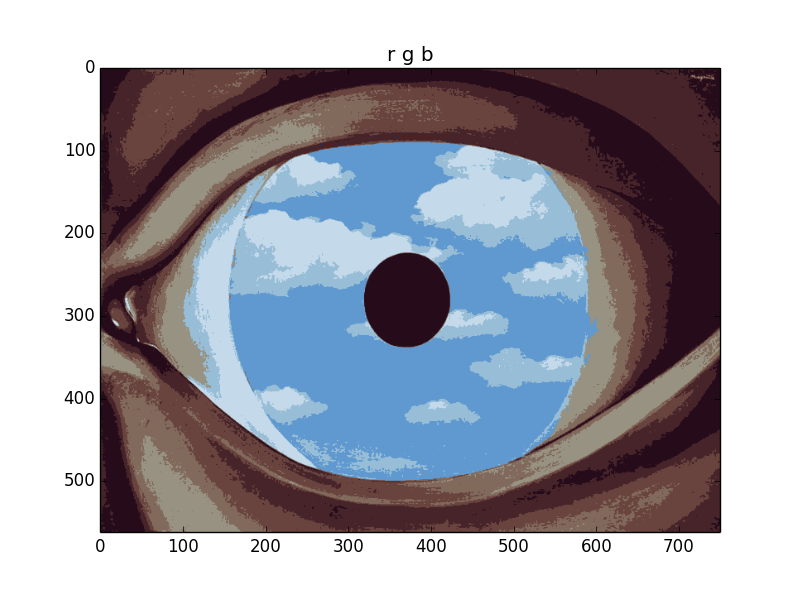
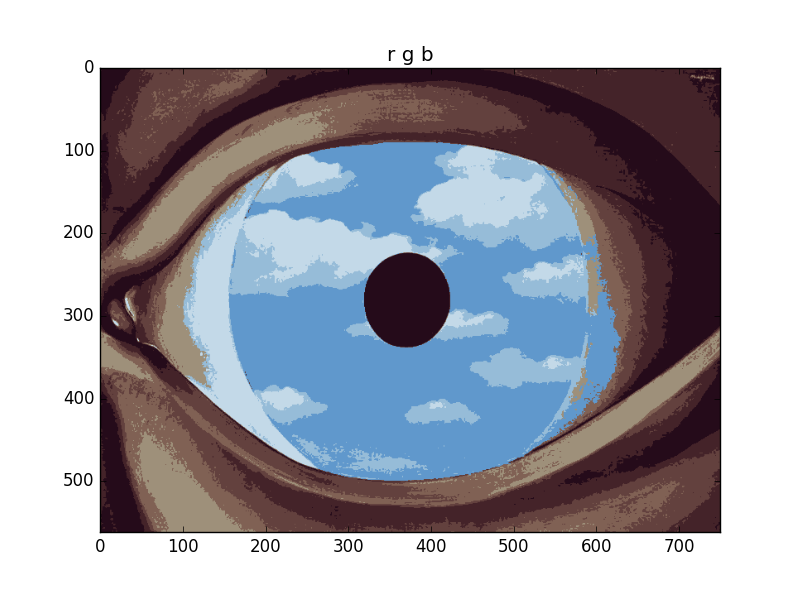
normalizing now

diff --git a/cross_stitchofy.py b/cross_stitchofy.py
@@ -1,5 +1,6 @@
 
 import matplotlib
+matplotlib.use('Agg')
 import matplotlib.pyplot as plt;
 import numpy as np
 import scipy.misc
@@ -7,10 +8,11 @@ import sklearn.cluster
 import matplotlib.colors
 import sys
 import argparse
+# import imageio
 # import matplotlib.pyplot as plt
 
 def cluster_im(im,type_cluster, num_k):
-
+    print im.shape
     arr = np.array(im,dtype=float)/255.
     # print np.min(arr),np.max(arr)
     if type_cluster[0]=='hsv':
@@ -23,12 +25,18 @@ def cluster_im(im,type_cluster, num_k):
 
     print 'CLUSTERING IN TO %d CLUSTERS' % num_k
     kmeans = sklearn.cluster.KMeans(n_clusters=num_k)
+
     arr_shape = arr.shape
     arr = np.reshape(arr, (arr.shape[0]*arr.shape[1],arr.shape[2]))
+    mean = np.mean(arr,0,keepdims = True)
+    std = np.std(arr,0, keepdims = True)
+    std[std==0]=1.
+    arr = (arr-mean)/std
+    
     arr_idx = kmeans.fit_predict(arr)
 
     for idx_curr in range(num_k):
-        arr[arr_idx==idx_curr,:]=kmeans.cluster_centers_[idx_curr]
+        arr[arr_idx==idx_curr,:]=(kmeans.cluster_centers_[idx_curr]*std)+mean
 
     arr = np.reshape(arr,arr_shape)
     
@@ -71,7 +79,7 @@ def magic(in_file,
 
     in_file_stripped = in_file[:in_file.rindex('.')]
     
-    im = scipy.misc.imread(in_file)
+    im = scipy.misc.imread(in_file,mode='RGB')
     if np.max(im.shape)>800:
         im = downscale(im,800,'bilinear')
 

diff --git a/README.md b/README.md
@@ -1,5 +1,5 @@
 # cross_stitchofy
-Makes a cross stitch pattern from a picture. You can specify the scale of your pattern, the number of colors you want, and the type of clustering you want (rgb or hsv). You can also play around with how your pattern is saved so that it's easy to read. Colors are clustered before downsampling.. sometimes the opposite is better. Change lines 78-79 if you want to try that. 
+Makes a cross stitch pattern from a picture. You can specify the scale of your pattern, the number of colors you want, and the type of clustering you want (rgb or hsv). You can also play around with how your pattern is saved so that it's easy to read. Colors are clustered before downsampling.. sometimes the opposite is better. Change lines 86-87 if you want to try that. 
 
 To see options type
 ```
